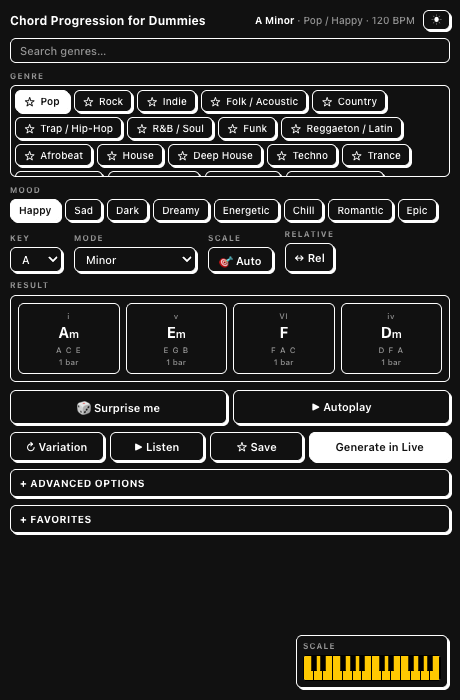
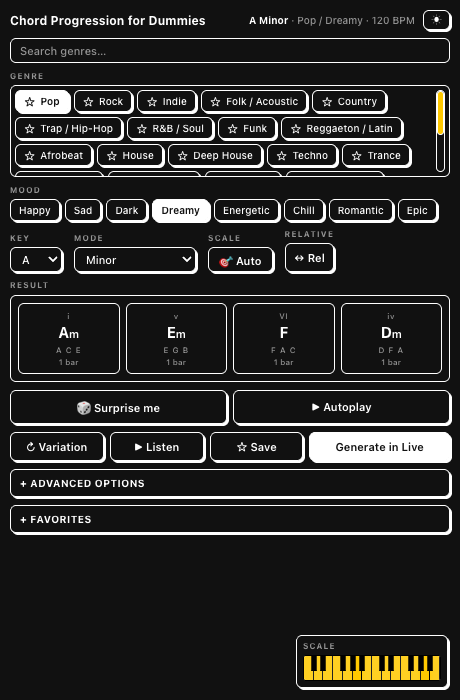
fix: always-visible custom yellow scrollbar for genre list
Native scrollbars hide in the Live webview, so replace with a custom
always-on yellow thumb (draggable + track-click) that reflects scroll
position. Hide the native bar in WebKit/Firefox.

diff --git a/src/interface.html b/src/interface.html
@@ -92,20 +92,24 @@
     .chip[aria-pressed="true"] .star { color: var(--paper); }
     .chip[aria-pressed="true"] .star.on { color: var(--star); }
 
+    /* Custom always-visible yellow scrollbar (native is hidden in the Live webview) */
+    .genre-wrap { position: relative; }
     .genre-scroll {
-      max-height: 92px; overflow-y: scroll; padding: 4px 6px 4px 4px;
+      max-height: 92px; overflow-y: auto; padding: 4px 16px 4px 4px;
       border: 1px solid var(--ink); border-radius: var(--radius);
-      scrollbar-gutter: stable;
-      scrollbar-width: auto; scrollbar-color: var(--star) var(--paper); /* Firefox */
+      scrollbar-width: none; /* Firefox: hide native */
     }
-    /* Obvious yellow scrollbar so users know the list scrolls (WebKit/Chromium) */
-    .genre-scroll::-webkit-scrollbar { width: 12px; }
-    .genre-scroll::-webkit-scrollbar-track { background: var(--paper); border-left: 1px solid var(--ink); }
-    .genre-scroll::-webkit-scrollbar-thumb {
-      background: var(--star); border: 1px solid var(--ink); border-radius: 7px; min-height: 26px;
+    .genre-scroll::-webkit-scrollbar { width: 0; height: 0; } /* WebKit: hide native */
+    .genre-bar {
+      position: absolute; top: 5px; right: 5px; bottom: 5px; width: 9px;
+      background: var(--paper); border: 1px solid var(--ink); border-radius: 6px; cursor: pointer;
     }
-    .genre-scroll::-webkit-scrollbar-thumb:hover { filter: brightness(1.08); }
-    .genre-scroll::-webkit-scrollbar-thumb:active { background: var(--star); }
+    .genre-thumb {
+      position: absolute; left: 0; right: 0; top: 0; min-height: 18px;
+      background: var(--star); border: 1px solid var(--ink); border-radius: 5px; cursor: grab;
+      will-change: transform;
+    }
+    .genre-thumb:active { cursor: grabbing; }
 
     .row { display: flex; gap: 12px; flex-wrap: wrap; align-items: flex-end; }
     .field { display: flex; flex-direction: column; gap: 4px; }
@@ -193,7 +197,10 @@
   <div class="chips" id="fav-genres" style="display:none"></div>
 
   <span class="label">Genre</span>
-  <div class="genre-scroll"><div class="chips" id="genres"></div></div>
+  <div class="genre-wrap">
+    <div class="genre-scroll" id="genre-scroll"><div class="chips" id="genres"></div></div>
+    <div class="genre-bar" id="genre-bar"><div class="genre-thumb" id="genre-thumb"></div></div>
+  </div>
 
   <span class="label">Mood</span>
   <div class="chips" id="moods"></div>
@@ -564,6 +571,53 @@
       const q = query.toLowerCase();
       GENRES.filter(g => !q || g.name.toLowerCase().includes(q) || g.group.toLowerCase().includes(q) || g.chars.some(c => c.includes(q)))
         .forEach(g => list.appendChild(genreChip(g)));
+      requestAnimationFrame(updateGenreBar);
+    }
+
+    // Custom scrollbar for the genre list (always-visible yellow thumb).
+    function updateGenreBar() {
+      const sc = document.getElementById("genre-scroll");
+      const bar = document.getElementById("genre-bar");
+      const thumb = document.getElementById("genre-thumb");
+      if (!sc || !bar || !thumb) return;
+      const ratio = sc.clientHeight / sc.scrollHeight;
+      if (ratio >= 1) { bar.style.display = "none"; return; }
+      bar.style.display = "";
+      const trackH = bar.clientHeight;
+      const thumbH = Math.max(18, Math.round(ratio * trackH));
+      const maxTop = trackH - thumbH;
+      const scrollRange = sc.scrollHeight - sc.clientHeight;
+      const top = scrollRange > 0 ? (sc.scrollTop / scrollRange) * maxTop : 0;
+      thumb.style.height = thumbH + "px";
+      thumb.style.transform = "translateY(" + top + "px)";
+    }
+
+    function wireGenreBar() {
+      const sc = document.getElementById("genre-scroll");
+      const bar = document.getElementById("genre-bar");
+      const thumb = document.getElementById("genre-thumb");
+      sc.addEventListener("scroll", updateGenreBar);
+      window.addEventListener("resize", updateGenreBar);
+      let dragging = false, startY = 0, startScroll = 0;
+      thumb.addEventListener("pointerdown", e => {
+        dragging = true; startY = e.clientY; startScroll = sc.scrollTop;
+        thumb.setPointerCapture(e.pointerId); e.preventDefault();
+      });
+      thumb.addEventListener("pointermove", e => {
+        if (!dragging) return;
+        const maxTop = bar.clientHeight - thumb.clientHeight;
+        const range = sc.scrollHeight - sc.clientHeight;
+        if (maxTop > 0) sc.scrollTop = startScroll + ((e.clientY - startY) / maxTop) * range;
+      });
+      const stop = () => { dragging = false; };
+      thumb.addEventListener("pointerup", stop);
+      thumb.addEventListener("pointercancel", stop);
+      bar.addEventListener("pointerdown", e => {
+        if (e.target === thumb) return;
+        const rect = bar.getBoundingClientRect();
+        const rel = (e.clientY - rect.top) / rect.height;
+        sc.scrollTop = rel * (sc.scrollHeight - sc.clientHeight);
+      });
     }
 
     function genreChip(g) {
@@ -937,9 +991,11 @@
 
     applyTheme();
     initSelectors();
+    wireGenreBar();
     renderAll();
     renderFavList();
     if (autoDetect) applyAutoDetect(true);
+    requestAnimationFrame(updateGenreBar);
   </script>
 </body>
 </html>
